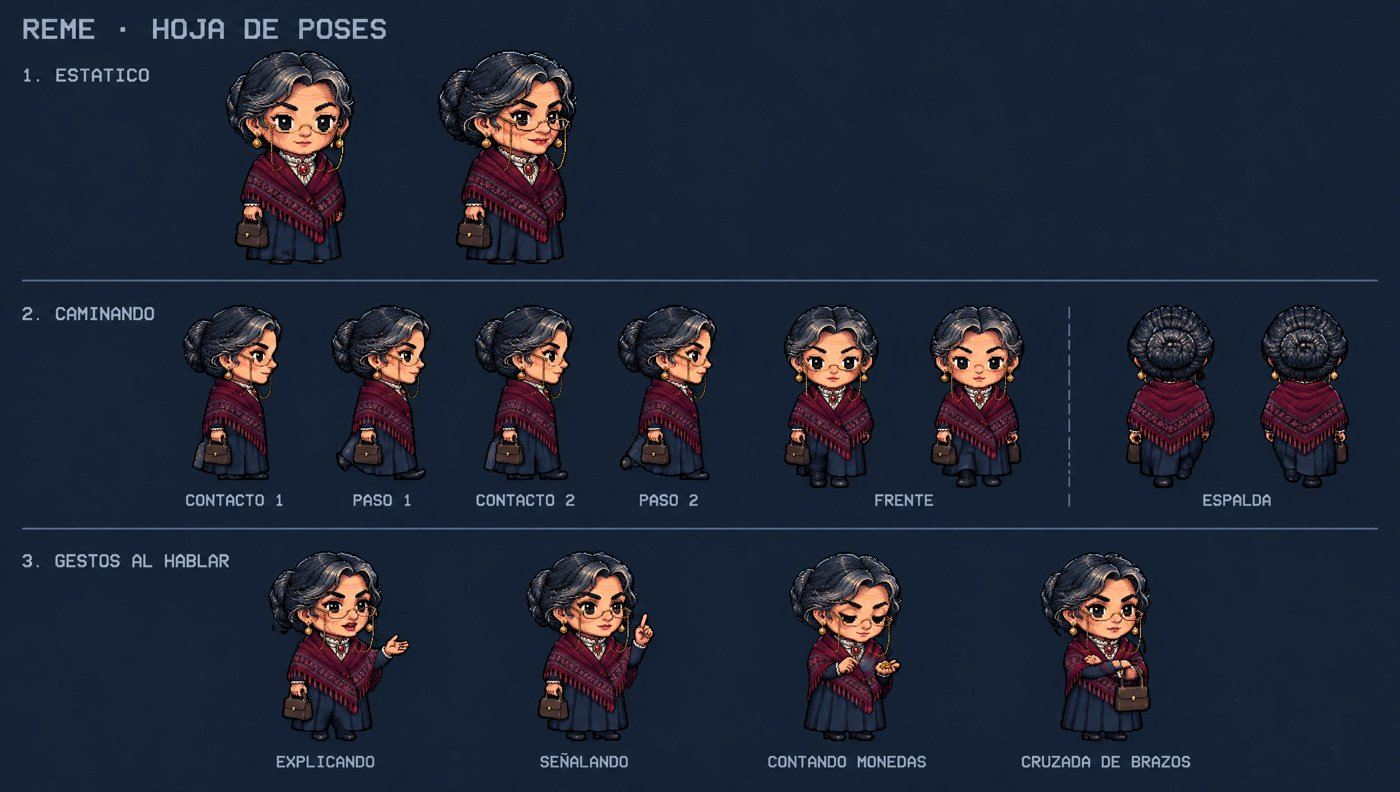
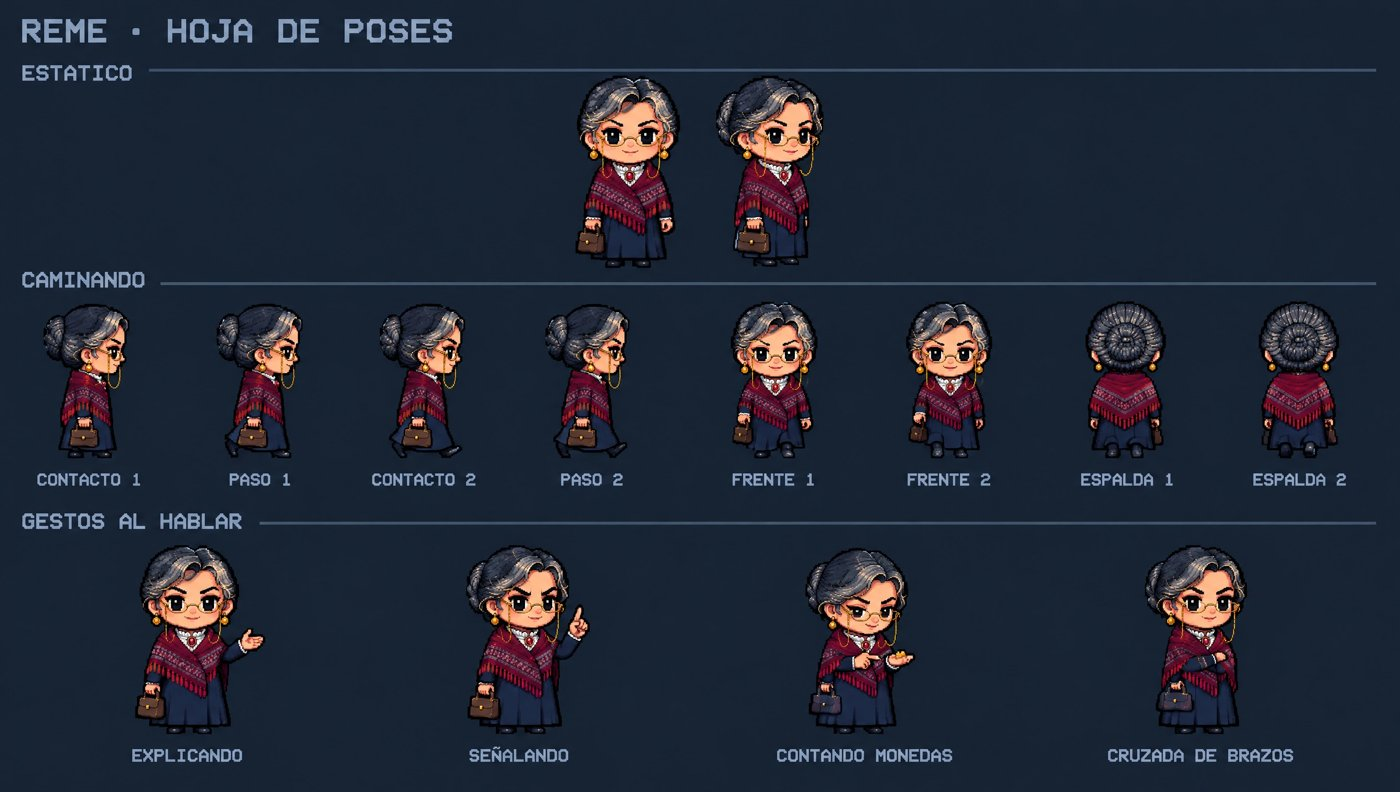
docs(arte): F0-60 aplica la estética del sprite del ministro a las hojas de Reme
Modelo y poses con píxeles grandes y colores planos, y cansancio suavizado en
las expresiones. El documento 12 fija la estética de referencia para todos los
personajes.

Changed region(s): [[0.0, 0.0, 0.9829, 0.9697]]

diff --git a/studio/docs/12-direccion-de-arte.md b/studio/docs/12-direccion-de-arte.md
@@ -132,7 +132,9 @@ El juego es **horizontal (landscape)**. Catorce imágenes en `studio/assets-ref/
 | **Expresiones** | **Estilo detallado** como los retratos de diálogo. Seis, **iguales para todos**: la **por defecto** según su personalidad, feliz, triste (llorando), enojo, susto y cansancio (bostezando, no triste) |
 | **Poses** | **Chibi pixel art** de cuerpo entero: estático, caminando (ciclo de 4 fotogramas de lado, más de frente y de espalda) y gestos al hablar |
 
-**Proporciones chibi:** la cabeza ocupa cerca del 40 % de la altura, cuerpo compacto, extremidades cortas, ojos grandes y sencillos, contorno negro grueso y píxeles visibles. El modelo y las poses de un mismo personaje deben tener las mismas proporciones.
+**Estética chibi de referencia ✅:** el sprite del ministro (`ministro-corregido.png`). Todos los personajes del modelo y las poses llevan esa estética: píxeles grandes y claramente visibles (cada personaje de unos 100 píxeles de alto), colores planos con 2 a 3 tonos por material, sombreado simple de bordes duros, contorno negro grueso, **sin textura fina, sin hebras de pelo y sin degradados**, ojos grandes y sencillos con un solo punto de brillo, boca pequeña, cabeza de cerca del 40 % de la altura y cuerpo compacto. El modelo y las poses de un mismo personaje tienen las mismas proporciones.
+
+**Expresiones ✅:** las seis tienen los mismos gestos para todos, sutiles y legibles. El **cansancio** es discreto (párpados pesados, ojeras leves, boca relajada), no exagerado y distinto de triste.
 
 **Hojas de NPC:** una por tipo (frente, espalda, un lado y dos expresiones). Los 35 tipos están en el registro del mundo (`studio/data/world.json`): Ministerio, Comisión del Éter, Consorcio Arvel, Unión, Los Faroleros, prensa, empleados, civiles, enemigos humanos y criaturas de La Fosa. Los jefes de zona quedan diferidos (⏳ F0-69).
 
